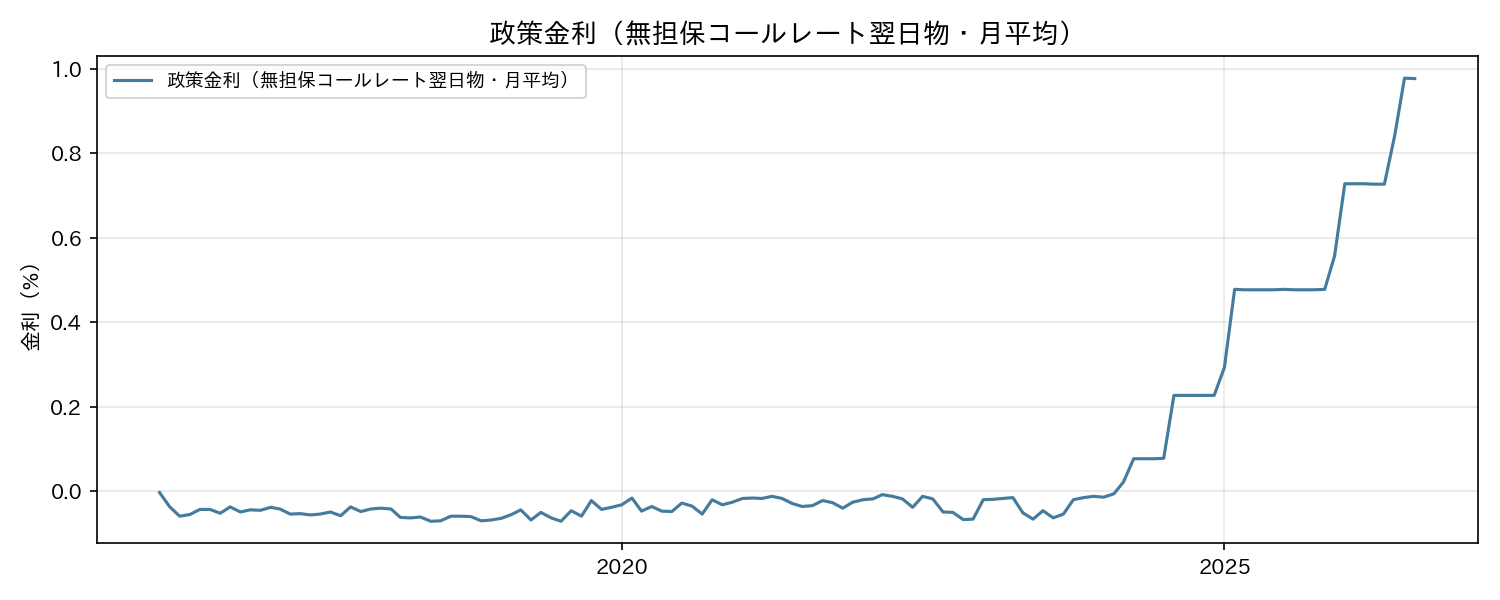
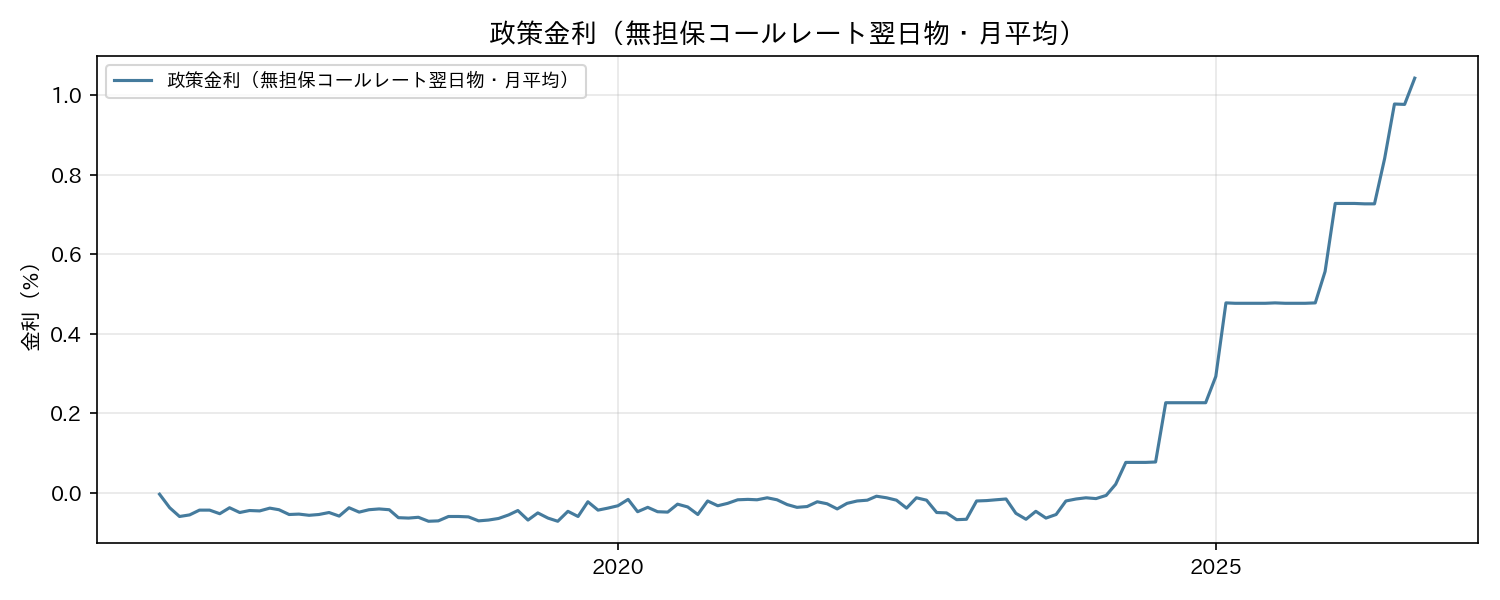
docs: add macro analysis report 2026-10-12
BOJ raised the policy rate in September (month-end 0.977% -> 1.226%),
resuming after the August pause. Core CPI held at 1.8% for August, while
BEI rose to a 2.108% average over 9/14-9/30 (latest 2.117%), widening the
CPI-BEI gap from 0.17pt back to 0.32pt. The yen bottomed at 153.42 on 9/14
and recovered to 158.06; the Nikkei rose 8.7% over the same month and the
US-Japan rate gap widened to 4.20pt (US 10y 5.24%).

Policy rate is shown on both a monthly-average and a month-end basis: the
month-end values show a single hike in June, not the June-July consecutive
hikes that the two previous reports described from monthly averages.

diff --git a/docs/report/macro_analysis_2026-10-12.md b/docs/report/macro_analysis_2026-10-12.md
@@ -1,0 +1,269 @@
+# マクロ経済考察レポート（2026-10-12）
+
+> 生成日時: 2026-10-12
+
+---
+
+## エグゼクティブサマリー
+
+**前回レポート（2026-09-13）で挙げた3つのウォッチポイントのうち、日銀の判断と為替の方向がはっきりした回である**。①8月分のコアCPIは**1.8%**で、7月と同じ水準を維持した。②前回「休止か打ち止めか」と問うた日銀は、**9月に利上げを再開した**（政策金利は月末値で0.977%→**1.226%**）。③9月に153円台まで進んだ円高は、**9月14日の153.42円を底に反転し、158円台まで円安に戻した**。
+
+BEI（期待インフレ率）は、取得できた9月後半（9/14〜9/30）の平均が**2.108%**と、8月後半の1.993%から上昇し、最新値（9/30）も**2.117%**と2%を明確に上回った。取得できている範囲では、5月後半（2.253%）以来の高さである。一方でコアCPIは1.8%のまま動かなかったため、**前回0.17%ポイントまで縮まったCPIとBEIの乖離は、0.32%ポイントへ再び広がった**。今回は「期待が実績を引き離した」形である。
+
+テイラールールの適正金利は**2.55%**で前回と同じ（コアCPI・需給ギャップとも前回から変化なし）。政策金利が上がった分、乖離は縮小したが、月末値（1.226%）基準でも**1.32%ポイント**の開きが残る。
+
+市場では、前回「円高と株安が同時に進んだ」局面が反転した。日経225は9/14の63,493円から**+8.7%**上昇し、10/6には3ヶ月高値の70,684円を付けた。米10年債利回りは**5.24%**（10/5に5.31%）まで上昇し、日米金利差は4.20%ポイント（月平均基準）に拡大した。**前回「金利差で説明できない」と書いた円買いは、金利差と整合する円安方向へ戻っている**。
+
+---
+
+## 総合モニタリングチャート（見取り図）
+
+5指標を「日銀の見取り図」（経済→物価→金融）の時計回り順に並べた俯瞰図。
+
+![日銀マクロ経済モニタリング 統合チャート](./images/combined_chart.png)
+
+---
+
+## 1. 国内経済・物価指標の現状
+
+### 1-1. 指標サマリー
+
+| 指標 | 最新値 | 前回値 | 変化 | 評価 |
+|------|--------|--------|------|------|
+| コアCPI（前年比）[2026-08] | 1.8% | 1.8%（2026-07） | → 横ばい | 🟡 上昇が一服・目標まで0.2%pt |
+| 政策金利（月平均）[2026-09] | 1.043%（月末値 1.226%） | 0.977%（2026-08） | ▲ 0.066%pt（月末値は ▲ 0.249%pt） | 🟢 利上げ再開 |
+| 需給ギャップ [2026-Q2] | +0.7% | +0.7%（2026-Q2） | → 新規公表なし | 🟢 需要超過（Q3分は未公表） |
+| BEI（期待インフレ率）[2026-09-30] | 2.117% | 1.969%（2026-08-31） | ▲ 0.148%pt | 🟢 2%超え・9月後半平均2.108% |
+| 実質金利（政策金利月平均 − BEI） | −1.07% | −0.99% | ▼ 0.08%pt | 🔴 緩和的（BEI上昇で再拡大。月末値基準では −0.89%） |
+
+🟢 良好・目標方向　／　🟡 やや外れ　／　🔴 要注意・目標から乖離
+
+> **補足**: 需給ギャップは、前回レポートの時点で既に2026年Q2分（+0.7%）が公表済みである。Q3分はまだ公表されておらず、今回の数字に変化はない。
+
+---
+
+### 1-2. テイラールール：適正政策金利の試算
+
+```
+【テイラールール】
+適正金利 ＝ 均衡実質金利 ＋ 目標インフレ率 ＋ 0.5 × 需給ギャップ ＋ 1.5 × インフレギャップ
+
+均衡実質金利（自然利子率）: 0.5%（日銀リサーチ推計レンジ中央値）
+目標インフレ率: 2.0%
+需給ギャップ: +0.7%
+インフレギャップ（コアCPI − 2%）: 1.8% − 2.0% ＝ −0.2%
+
+適正金利 ＝ 0.5 ＋ 2.0 ＋ 0.5 × 0.7 ＋ 1.5 × (−0.2)
+         ＝ 0.5 ＋ 2.0 ＋ 0.35 − 0.3
+         ＝ 2.55%
+```
+
+| 項目 | 月平均基準（前回との継続性） | 月末値基準（現在の実勢） |
+|------|------|------|
+| テイラールール適正金利 | **2.55%**（前回 2.55%） | **2.55%** |
+| 現在の政策金利 | 1.043%（前回 0.977%） | 1.226% |
+| 乖離（過剰緩和幅） | **−1.51%pt**（前回 −1.57%pt） | **−1.32%pt** |
+
+入力値（コアCPI 1.8%・需給ギャップ +0.7%）が前回と同じため、**適正金利は2.55%のまま動かない**。乖離が縮んだのは、日銀が9月に政策金利を引き上げたことだけが理由である。
+
+月平均（1.043%）は、利上げが月の途中で行われたため、新しい水準（1.226%）を一部しか反映していない。**実勢を見るなら月末値の1.226%が適切**で、その場合の乖離は−1.32%ポイントになる。3ヶ月連続で拡大していた乖離（1.01 → 1.17 → 1.57%pt）は、今回初めて縮小に転じた。ただし、政策金利は適正水準の**約5割**（1.226 ÷ 2.55）にとどまり、正常化は道半ばである。
+
+> **データの読み方**: 日銀の時系列統計は「月平均」と「月末値」の2列を提供している。9月の月末値が1.226%、月平均が1.043%であることから、利上げは9月下旬に行われたと読める。具体的な決定日はこのデータからは特定できない。
+
+---
+
+### 1-3. 指標別詳細考察
+
+#### ① 需給ギャップ（経済ブロック）
+
+![需給ギャップ（GDPギャップ）](./images/gdp_gap_chart.png)
+
+最新は2026年Q2の**+0.7%**で、前回から変化はない。2025年Q3 +0.1% → Q4 +0.2% → 2026年Q1 +0.5% → Q2 +0.7% と4四半期連続で改善した状態が続いている。
+
+前回レポートで「Q2は4〜6月であり、9月の急激な円高・株安はまだ反映されていない」と書いたが、**Q3分（7〜9月）が公表されるまで、その影響は需給ギャップには現れない**。今回は新しい情報がなく、前回の評価（需要超過の拡大・物価押し上げ方向）がそのまま続く。
+
+---
+
+#### ② コアCPI・物価上昇率（物価ブロック）
+
+![コアCPI（生鮮食品を除く総合・前年比）](./images/cpi_chart.png)
+
+2026年8月分は**1.8%**で、7月（1.8%）と同じだった。4・5月に1.4%まで沈んだあと、6月1.6%→7月1.8%と上昇した流れは、8月には**横ばいで一服**した。目標2%まで残り0.2%ポイントという位置は変わっていない。
+
+前回、**円高の影響は3〜6ヶ月遅れて物価に出る**と整理した。9月に進んだ円高（153円台）は、この8月分にはまだ入っていない。さらに円は9月14日を底に158円台まで戻しており、**円高による押し下げ圧力は、当初想定したよりも弱まる可能性がある**。ただし、9月分以降のCPIはまだ公表されておらず、この見立ては為替の動きからの推測であって、CPIで確認できたものではない。
+
+---
+
+#### ③ BEI（期待インフレ率）と④ インフレギャップ（物価ブロック）
+
+![BEI（ブレーク・イーブン・インフレ率）](./images/expected_inflation_chart.png)
+
+BEI は債券市場が織り込む予想インフレ率で、普通国債と物価連動国債の利回り差から算出される。**9月後半は2.03〜2.17%のレンジで推移し、9/25に2.174%を付けたあと、9/30は2.117%だった**。
+
+| 月 | 取得できた期間 | 期間平均 | 期間レンジ |
+|----|--------------|---------|-----------|
+| 2026-05 | 05-18 〜 05-29（10営業日） | 2.253% | 2.172 〜 2.277% |
+| 2026-06 | 06-17 〜 06-30（10営業日） | 2.042% | 1.950 〜 2.088% |
+| 2026-07 | 07-17 〜 07-31（10営業日） | 1.943% | 1.883 〜 1.976% |
+| 2026-08 | 08-18 〜 08-31（10営業日） | 1.993% | 1.969 〜 2.014% |
+| **2026-09** | **09-14 〜 09-30（10営業日）** | **2.108%** | **2.028 〜 2.174%** |
+
+> **データ制約**: 取得元（stock-marketdata.com）の表は常に最新10営業日分しか掲載していないため、各月とも**月後半の10営業日のみ**が蓄積されている（月前半は欠測）。上表は「月中平均」ではなく**月後半10営業日の平均**である。今回の9月分は、9月1日〜11日が欠測になっている。
+
+7月後半を底に、8月（1.993%）、9月（2.108%）と**2ヶ月連続で上昇**した。9月後半の平均は、取得できている範囲では6月後半（2.042%）を上回り、5月後半（2.253%）以来の高さである。9月前半には円高・株安の局面があったが、**期待インフレはそこで崩れていない**。前回の宿題（「円高・株安局面でBEIが崩れなかったか」）は、少なくとも9月後半の数字では「崩れなかった」と確認できた。
+
+![インフレギャップ（コアCPI − 物価安定目標 2%）](./images/inflation_gap_chart.png)
+
+インフレギャップ（コアCPI − 2%）は**−0.2%ポイント**で前回と同じ。2026年2月にマイナス転落してから7ヶ月連続でマイナス圏にあり、ゼロ復帰（＝目標達成）は、8月分では実現しなかった。
+
+**CPIとBEIの乖離**を改めて整理する。
+
+| 時点 | コアCPI | BEI | 乖離 | 性格 |
+|------|---------|-----|------|------|
+| 前々回（2026-08-12） | 1.6% | 1.952% | 0.35%pt | CPIの回復で縮小 |
+| 前回（2026-09-13） | 1.8% | 1.969% | 0.17%pt | 実績が期待に追いつき、ほぼ一致 |
+| **今回（2026-10-12）** | **1.8%** | **2.117%** | **0.32%pt** | **CPIが横ばいの間に、期待が先行して上昇** |
+
+乖離は0.57 → 0.35 → 0.17%ポイントと縮小してきたが、今回は0.32%ポイントへ**再び広がった**。ただし性格は異なる。以前の乖離は「期待が高いのに実績が追いつかない」状態の解消過程だったが、今回は**期待がさらに上方へ動いた**ことによる。BEIが2%を超えて定着するなら、それは日銀が利上げを続ける根拠になる一方、**CPIが追いつかなければ期待が先走ったという見方も残る**。
+
+---
+
+#### ⑤ 政策金利・実質金利・自然利子率（金融ブロック）
+
+![政策金利・実質金利（金融ブロック）](./images/policy_rate_chart.png)
+
+**9月の政策金利（無担保コールレート翌日物）は、月平均で1.043%、月末値で1.226%**。8月（月平均0.977%・月末値0.977%）から、月末値で**0.249%ポイント**上がった。月末値で見ると、利上げは6月（0.727% → 0.976%）に1回あり、7〜8月は据え置き（0.977%）だった。そのあと、**9月に再び引き上げた**形である。1年前（2025年9月 0.477%）比では+0.57%ポイントで、水準は2倍超になっている。
+
+実質金利（政策金利 − BEI）は、月平均基準で**−1.07%**。前回の−0.99%から、**名目金利が上がったにもかかわらずマイナス幅が広がった**。BEIの上昇（1.969% → 2.117%、+0.148%pt）が、月平均で見た名目金利の上昇（+0.066%pt）を上回ったためである。月末値（1.226%）で見れば−0.89%と、前回より緩和度合いが縮んでいる。**どちらの基準で見ても、自然利子率0.5%を中立とすれば実質金利は中立を大きく下回り、金融環境は緩和的なまま**である。
+
+---
+
+## 2. 外部要因・市場動向
+
+### 2-1. 為替（USDJPY）
+
+| 期間 | 水準 |
+|------|------|
+| 現在（2026-10-09 終値） | **158.06 円/ドル** |
+| 30日前の最初の営業日（2026-09-14） | 153.42 円/ドル |
+| 3ヶ月前（2026-07-09） | 162.54 円/ドル |
+| 3ヶ月高値 | 163.86 円/ドル（2026-07-29） |
+| 3ヶ月安値 | 153.42 円/ドル（2026-09-14） |
+| 1ヶ月変化率 | **+3.02%（円安方向）** |
+| 3ヶ月変化率 | **−2.75%（円高方向）** |
+
+前回の3ヶ月安値（153.48円・9/9）は、**9月14日に153.42円へ更新されたのを最後に、反転した**。9/14以降は、9/25の158.81円まで9営業日で5.4円（3.5%）の円安が進み、その後も157〜158円台で推移している。3ヶ月高値（7/29の163.86円）からは3.5%円高の位置にあり、**円高の流れが完全に消えたわけではない**。
+
+**日米金利差との関係**：
+
+| 指標 | 値 |
+|------|---|
+| 米10年債利回り（2026-10-09） | 5.244%（前回 4.975%） |
+| 日本政策金利（月平均 / 月末値） | 1.043% / 1.226%（前回 0.977%） |
+| 日米金利差（月平均基準 / 月末値基準） | **4.20%ポイント / 4.02%ポイント**（前回 4.00%pt） |
+
+米10年債利回りは、3ヶ月前（7/9）の4.54%から**+0.71%ポイント**上がり、10/5には5.311%の期間高値を付けた。日本が9月に利上げをしたものの、**米金利の上昇がそれを上回り、金利差はむしろ広がっている**（月末値基準でも4.02%ポイントと、前回の4.00%ポイントと同水準）。
+
+前回は「金利差が拡大したのに円が買われた」ことを謎として挙げた。今回は、**金利差が拡大し、円が売られた**という、教科書どおりの動きである。9月前半の円高は、金利差ではなく、リスクオフや円キャリー取引の巻き戻しといった資金フローによるものだった可能性が高まった。ただし、これを裏付ける直接のデータ（ポジション統計など）はこのツールでは取得していないため、**あくまで状況証拠からの推測**である。
+
+### 2-2. 株式市場（日経225）
+
+| 期間 | 水準 |
+|------|------|
+| 現在（2026-10-09 終値） | **69,031 円** |
+| 30日前の最初の営業日（2026-09-14） | 63,493 円 |
+| 3ヶ月前（2026-07-09） | 67,744 円 |
+| 3ヶ月高値 | 70,684 円（2026-10-06） |
+| 3ヶ月安値 | 61,434 円（2026-07-29） |
+| 1ヶ月変化率 | **+8.72%（上昇）** |
+| 3ヶ月変化率 | **+1.90%（上昇）** |
+
+**前回の下落局面は終わり、株価は3ヶ月高値圏へ戻った**。9月15日の63,484円を底に、10月6日には70,684円まで上昇している（前回レポート時点の64,011円からは+7.8%）。10/6の高値からは2.3%下げて10/9を迎えた。
+
+前回は「円高と株安が同じ資金フローの表と裏」という仮説を置いた。今回、**円が9/14を底に円安へ戻る動きと、株価が9/15を底に反発する動きがほぼ同時に起きた**ことは、この仮説と整合的である。ただし、因果関係を証明するデータはなく、同時期に米金利が上がり、日銀が利上げをしたなど、他の要因も重なっている。
+
+金融政策への含意としては、**株高・円安の組み合わせは、前回懸念した「資産効果の剥落」と「輸入物価の押し下げ」の両方を和らげる**方向に働く。
+
+---
+
+## 3. 総合考察（金融政策への含意）
+
+### 3-1. 現状の総括：日銀は動き、外部環境は追い風へ転じた
+
+**国内指標**
+
+| 指標 | 方向 | 政策含意 |
+|------|------|---------|
+| コアCPI 1.8%（7月と同じ・一服） | 横ばい | 目標まで0.2%pt。決め手には欠ける |
+| 需給ギャップ +0.7%（新規公表なし） | 変化なし | 需要超過が継続 → 利上げ支持（変わらず） |
+| BEI 9月後半平均2.108%（2ヶ月連続上昇） | 改善 | 期待インフレは2%超で定着 → 利上げ支持 |
+
+**外部環境（前回の逆風が反転）**
+
+| 要因 | 方向 | 政策含意 |
+|------|------|---------|
+| 円 158円（9/14の153円から円安へ戻す） | 反転 | 輸入物価の押し下げ圧力が後退 |
+| 日経225 69,031円（1ヶ月 +8.7%） | 回復 | 資産効果・マインドの悪化が後退 |
+| 日米金利差 4.02〜4.20%pt（米10年債 5.24%） | 拡大 | 米金利上昇が円安方向に働く |
+
+**乖離①：コアCPI（1.8%）とBEI（2.12%）の差 → 0.32%ポイント（前回0.17%ptから再拡大）**
+
+CPIが動かないまま、BEIが2%を超えた。期待が実績を先行する形で、**CPIが後から追いつくかどうか**が次の焦点である。
+
+**乖離②：テイラールール適正金利（2.55%）と政策金利の差 → 月末値基準で1.32%ポイント（月平均基準 1.51%pt。前回1.57%ptから縮小）**
+
+3ヶ月続いた乖離の拡大は、9月の利上げでいったん止まった。ただし、適正水準の約5割という位置は、**ルール上の利上げ余地がなお大きい**ことを示している。
+
+**論点は「利上げを再開した日銀が、次に動くペースをどう取るか」に移った。**
+
+### 3-2. 次回会合に向けたシナリオ分析
+
+> 以下の確率の表現は、このツールの出力（指標の方向と大きさ）から筆者が見立てたものであり、日銀の公式見解や市場のコンセンサスではない。
+
+**シナリオA：追加利上げ（確率: 中）**
+
+BEIが2%を超え、乖離②も1.32%ポイント残っている。円も158円台へ戻り、前回懸念した円高による物価押し下げ圧力は後退した。6月・9月と引き上げた実績もあり、材料は揃っている。**前回（中〜高）から、利上げ直後であることを理由にやや下げた**。
+
+**シナリオB：様子見継続（確率: 中〜高）**
+
+9月に0.25%ポイントを引き上げたばかりで、その効果（特に円や株価への波及）を見極めたいという判断は自然である。コアCPIは1.8%と7月から動いておらず、**「CPIが目標に届いていないのに、期待だけ先行している」**という見方もできる。**前回（中）から確率を上げた**。
+
+**シナリオC：利上げ停止・緩和方向の点検（確率: 低）**
+
+BEIが2%を超え、需給ギャップもプラス圏にある以上、正常化路線を止める根拠は乏しい。米金利の急上昇が世界的な金融不安に発展する、といった急変が重ならない限り現実味は薄い。**前回（低）から変化なし**。
+
+### 3-3. リスクシナリオ
+
+**上振れリスク（物価加速・追加利上げの前倒し）**
+
+- 9月分以降のコアCPIが2.0%へ到達 → 目標達成が視野に
+- BEIが2%台を維持（取得範囲では9月後半の最低値が2.028%）
+- 円が再び160円台へ → 輸入物価を通じた物価上昇圧力
+- → 日銀は追加利上げを続け、年内に政策金利が1.5%へ接近する可能性
+
+**下振れリスク（米金利・外部ショックによる腰折れ）**
+
+- 米10年債利回りの上昇が続き（10/5に5.31%）、世界的なリスクオフに発展
+- 円キャリー取引の再度の巻き戻し → 円高と株安が再燃（9月前半の再現）
+- 3〜6ヶ月後のコアCPIが再び1.4%台へ失速
+- → 日銀は追加利上げを見送り、正常化ペースの再検討を迫られる
+
+---
+
+## 4. まとめ：3つのウォッチポイント
+
+| # | 注目ポイント | 意味 |
+|---|------------|------|
+| 1 | **9月分コアCPIは1.8%を超えるか** | 8月は1.8%で横ばいだった。9月分で上向けば、BEIの先行に実績が追いつく。円高の影響が出る時期でもあり、方向を見極める最初の材料 |
+| 2 | **利上げ後の次の一手** | 9月に再開した利上げが連続するのか、様子見に入るのか。BEIが2%を超えて定着し、CPIが追いつくかどうかが分岐点 |
+| 3 | **米金利上昇と円・株の関係** | 米10年債が5%台に乗せ、日米金利差は4%ポイントを超えた。9月前半のような円高・株安の再現があるか、それとも円安・株高が定着するか |
+
+前回の3つのウォッチポイントは、①CPIは維持（1.8%）、②日銀は「休止」だった（9月に利上げ再開）、③9月前半の円買いは、金利差ではなく資金フロー要因による一時的な動きだった可能性が高まった、という結果だった。次回は**「期待が先行する物価」が実績に結びつくか**が焦点となる。
+
+---
+
+> ※ 市場データ（USDJPY・日経225・米10年債利回り）は Yahoo Finance（yfinance）経由で取得した 2026-10-09 終値です（2026-10-12 は日本・米国とも祝日のため、直近営業日の値）。各期間の起点は、取得日から30日前・3ヶ月前の最初の営業日を使用しています。
+> BEI の最新値は 2026-09-30 時点で、9月前半（9/1〜9/11）は欠測です。取得元の仕様上、各月とも月後半の10営業日分のみが蓄積されています（詳細は 1-3 ③のデータ制約を参照）。今回の BEI の取得は、取得元の日付書式の変更（`YYYY/MM/DD` → `YYYY年M月D日`）に対応した修正（Issue #42）を入れた状態で実行しています。
+> 政策金利は、日銀時系列統計の「月平均」を継続して使用し、利上げの影響を見るため「月末値」を併記しています。
+> テイラールール計算における自然利子率は日銀リサーチ論文の推計レンジ中央値（0.5%）を使用しています。
+> チャート画像は `docs/report/images/` に格納済み（生成元: `uv run python main.py make_chart all`）。
